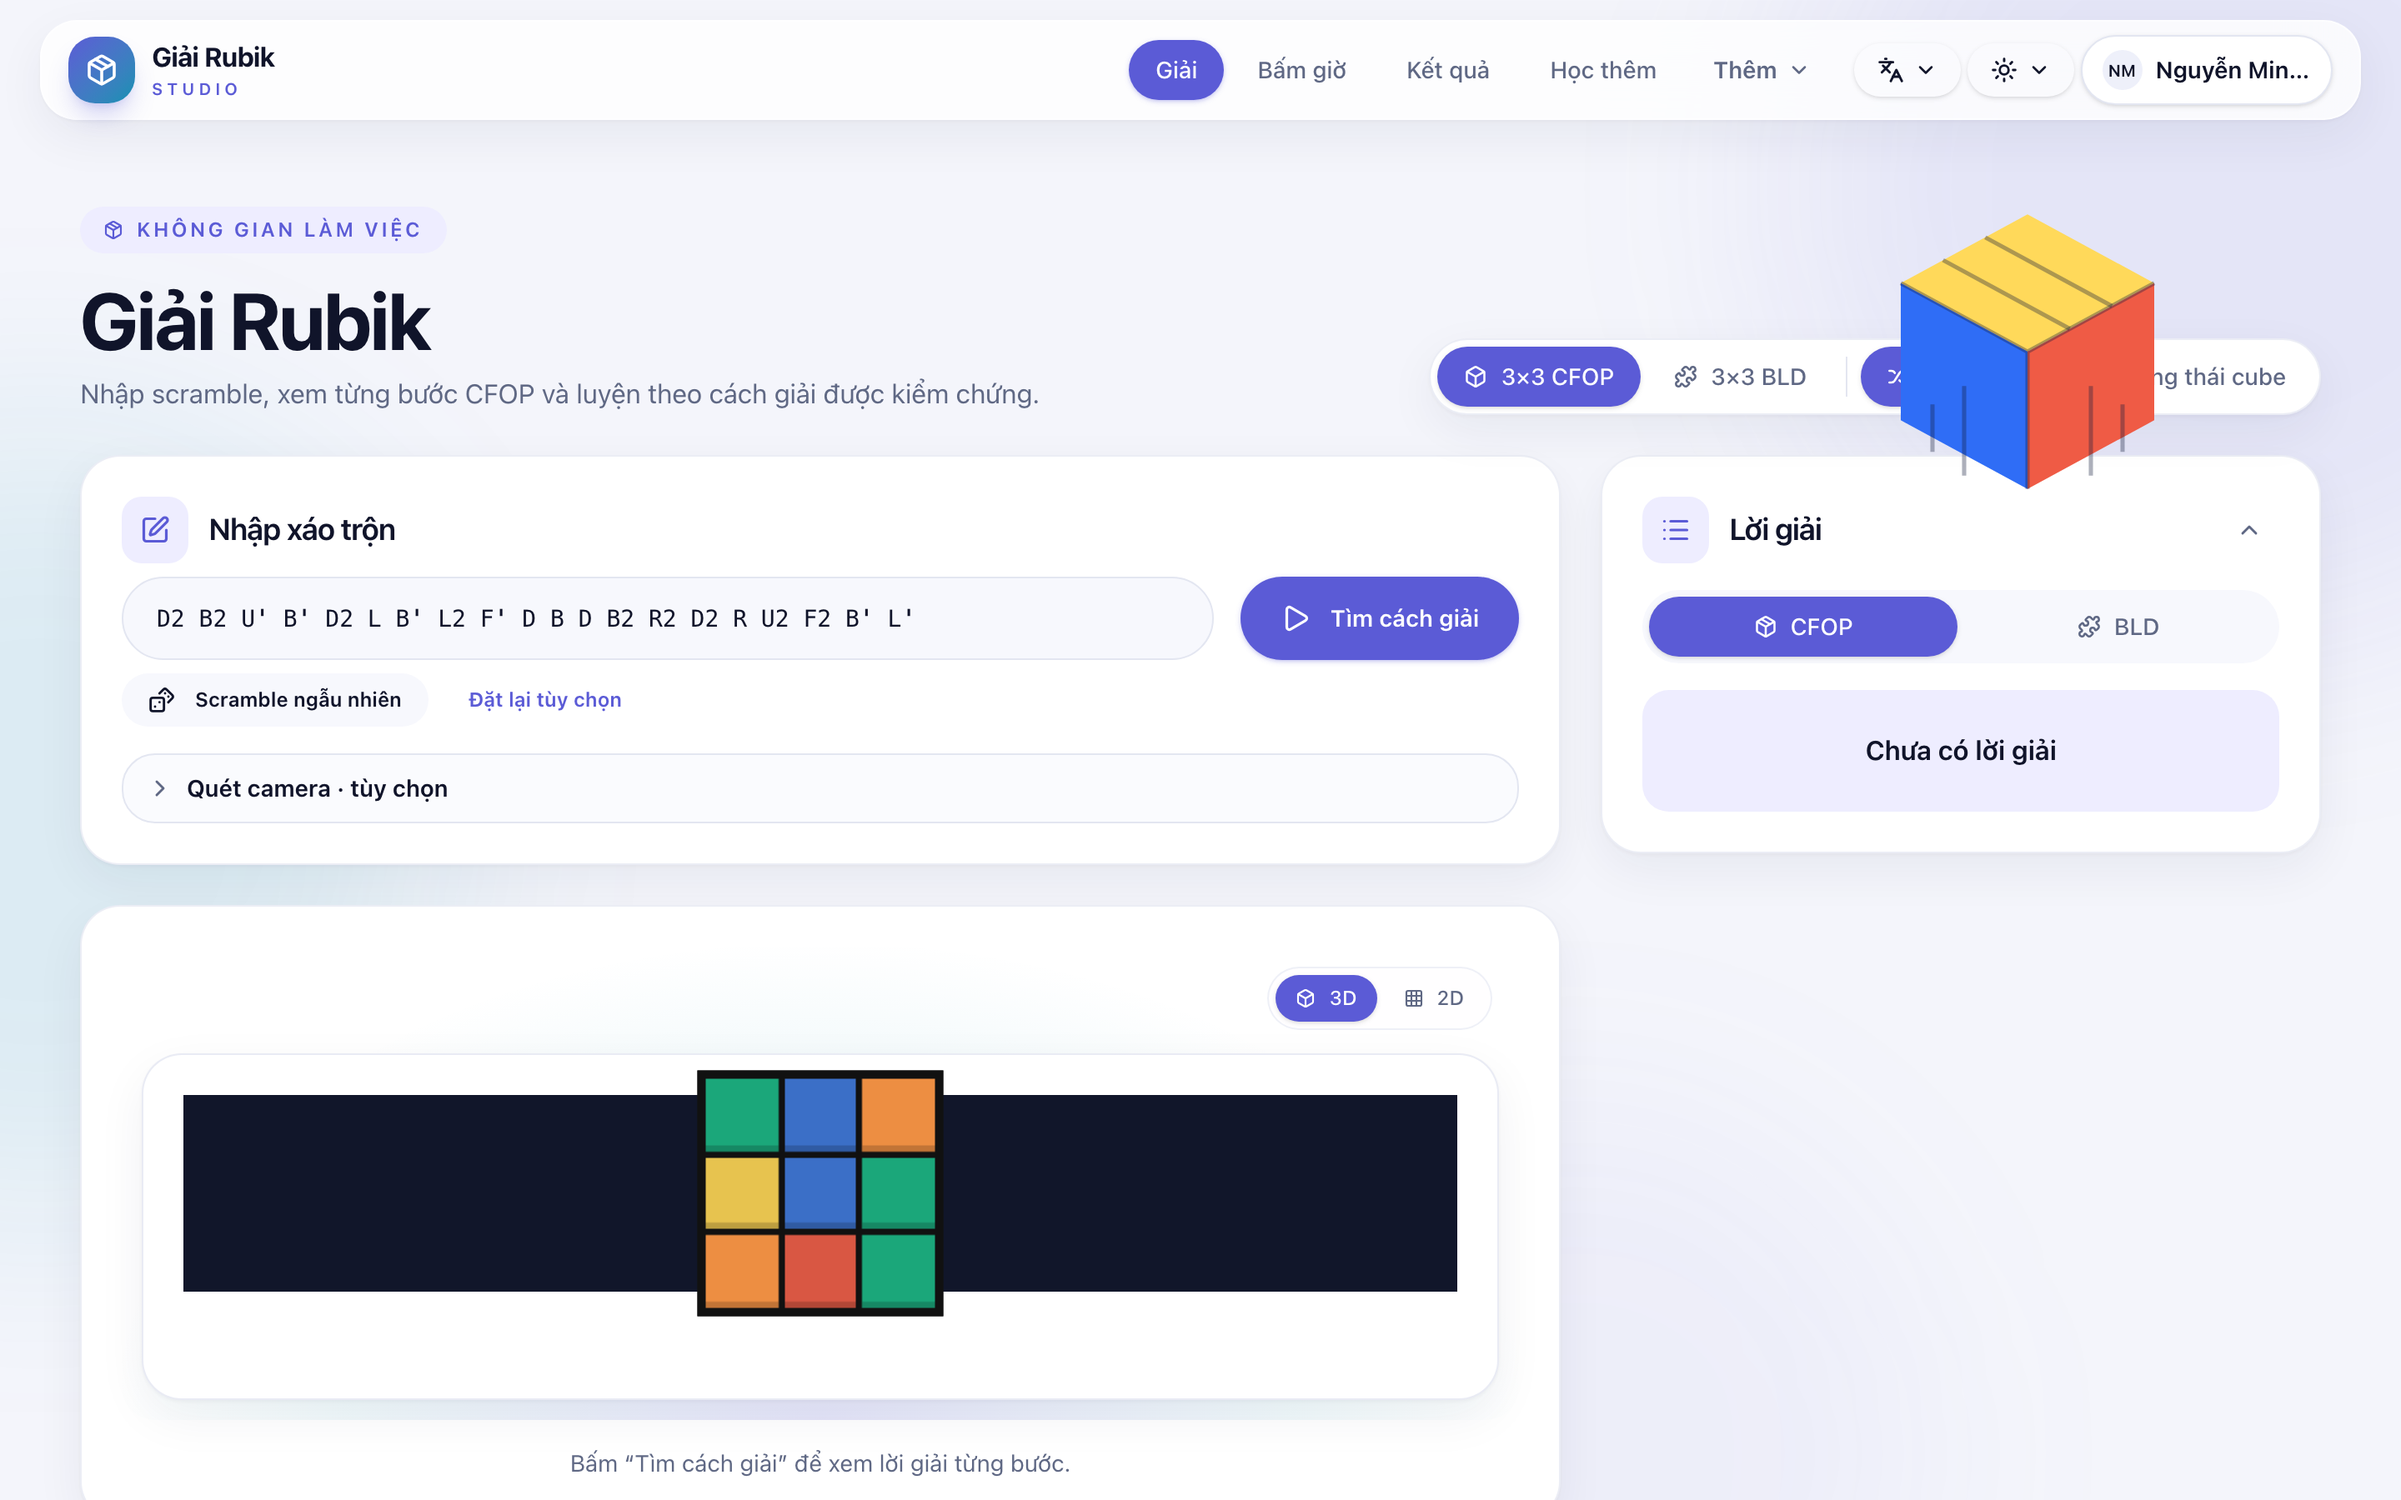
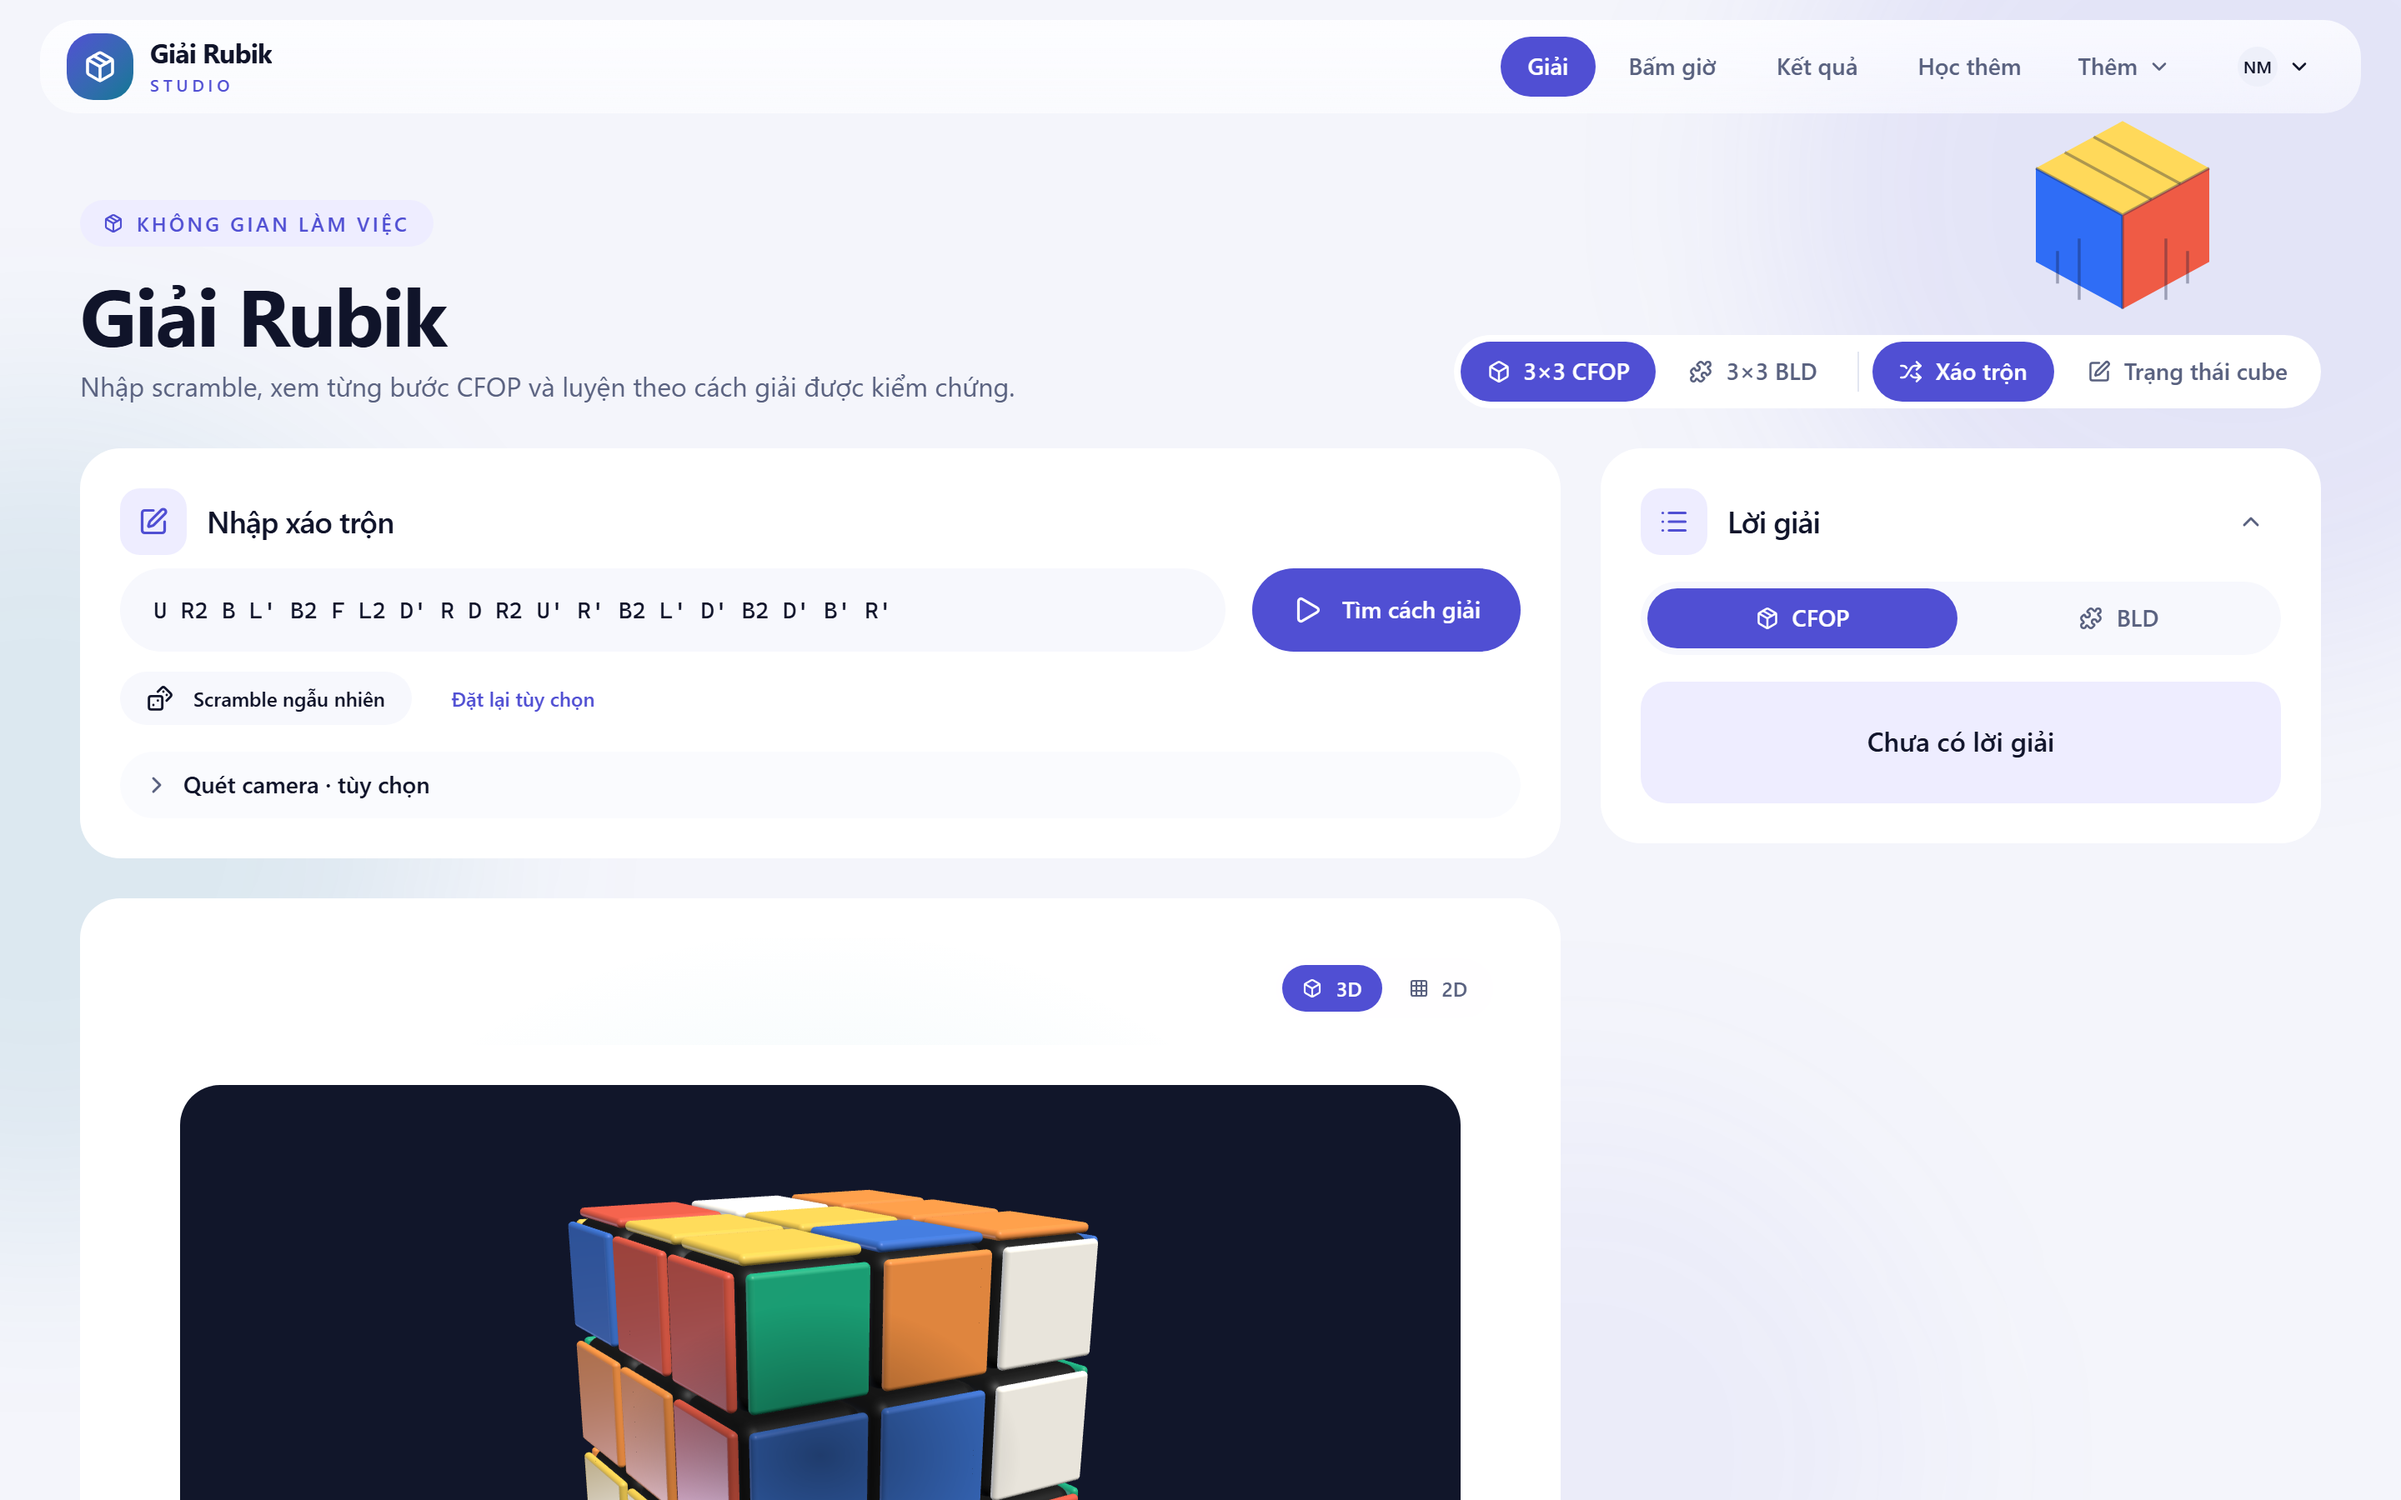
docs: refresh README screenshots with the current UI
The screenshots were generated before the UI redesign. They now show the current app: the Three.js cube 3D on the solver and timer pages, the redesigned results dashboard and the settings page with the opening controls.

capture-screenshots.mjs gained three improvements: the study page waits for the catalog to load instead of capturing the loading state, the results page is seeded with eight demo 3x3 solves so it shows metrics, the trend chart and the history list, and it also captures the solution panel (previously a one-off) with a real 20-move scramble.

The README notes the demo data used for the results shot.

diff --git a/README.md b/README.md
@@ -19,7 +19,7 @@ Thử ứng dụng trực tiếp: [cfop-solver.studio](https://cfop-solver.studi
 |---------|----------|---------|
 | ![Kết quả](docs/screenshots/results.png) | ![Học thêm](docs/screenshots/study.png) | ![Cài đặt](docs/screenshots/settings.png) |
 
-Ảnh được sinh lại bằng `node scripts/capture-screenshots.mjs` khi dev server đang chạy.
+Ảnh được sinh lại bằng `node scripts/capture-screenshots.mjs` khi dev server đang chạy. Trang Kết quả được chụp với dữ liệu demo (8 lượt giải 3×3 được nạp vào `localStorage`) để thể hiện chỉ số, biểu đồ xu hướng và danh sách lượt giải; các trang khác dùng trạng thái mặc định của ứng dụng.
 
 ## Tính năng chính
 

diff --git a/README.en.md b/README.en.md
@@ -19,7 +19,7 @@ Try the live app: [cfop-solver.studio](https://cfop-solver.studio) (if available
 |---------|-------|----------|
 | ![Results](docs/screenshots/results.png) | ![Study](docs/screenshots/study.png) | ![Settings](docs/screenshots/settings.png) |
 
-Regenerate them with `node scripts/capture-screenshots.mjs` while the dev server is running.
+Regenerate them with `node scripts/capture-screenshots.mjs` while the dev server is running. The Results page is captured with demo data (eight 3×3 solves seeded into `localStorage`) so it shows metrics, the trend chart and the history list; other pages show the app's default states.
 
 ## Features
 
